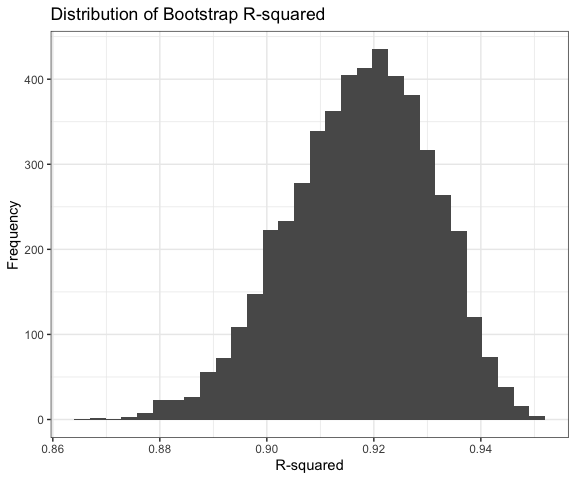
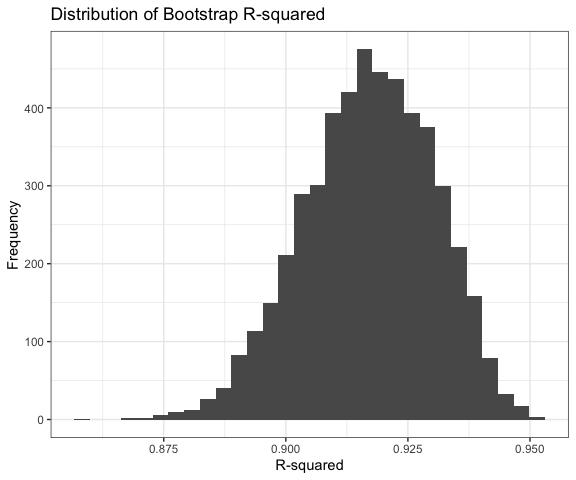
rmse of models plot

diff --git a/p8105_hw6_drl2168.md b/p8105_hw6_drl2168.md
@@ -219,9 +219,9 @@ df_weather |>
     ## # A tibble: 3 × 5
     ##   term        estimate std.error statistic   p.value
     ##   <chr>          <dbl>     <dbl>     <dbl>     <dbl>
-    ## 1 (Intercept)  8.31      0.233       35.7  1.15e-120
-    ## 2 tmin         0.998     0.0168      59.2  2.60e-188
-    ## 3 prcp        -0.00373   0.00262     -1.42 1.55e-  1
+    ## 1 (Intercept)  7.91      0.252       31.4  1.64e-105
+    ## 2 tmin         1.01      0.0183      55.3  1.49e-178
+    ## 3 prcp         0.00500   0.00211      2.37 1.81e-  2
 
 I created the dataframe I needed with 5000 samples of the weather
 dataframe.
@@ -317,8 +317,8 @@ df_bootstrap |>
 
 | Parameter | CI Lower Bound | CI Upper Bound |
 |:----------|---------------:|---------------:|
-| log_beta  |          -8.77 |         -4.594 |
-| r.squared |           0.89 |          0.941 |
+| log_beta  |         -8.453 |         -4.599 |
+| r.squared |          0.890 |          0.940 |
 
 # Problem 3
 
@@ -357,14 +357,6 @@ df_bwt =
     mrace = as.factor(mrace),
     frace = as.factor(frace))
 ```
-
-    ## Rows: 4342 Columns: 20
-    ## ── Column specification ────────────────────────────────────────────────────────
-    ## Delimiter: ","
-    ## dbl (20): babysex, bhead, blength, bwt, delwt, fincome, frace, gaweeks, malf...
-    ## 
-    ## ℹ Use `spec()` to retrieve the full column specification for this data.
-    ## ℹ Specify the column types or set `show_col_types = FALSE` to quiet this message.
 
 I will build this model using a stepwise regression approach, using AIC
 to evaluate model performance. This can be performed using the
@@ -606,14 +598,12 @@ df_bwt |>
   add_predictions(bwt_model) |> 
   ggplot(aes(x = pred, y = resid)) + 
   geom_point() + 
-  geom_smooth(method = "lm") + 
+  geom_smooth(method = "lm", formula = y ~ x) + 
   labs(
     x = "Predicted Birthweight",
     y = "Residuals"
   )
 ```
-
-    ## `geom_smooth()` using formula = 'y ~ x'
 
 <img src="p8105_hw6_drl2168_files/figure-gfm/resid plot-1.png" width="90%" />
 
@@ -623,3 +613,59 @@ the model only performing well on the more ‘typical’ baby, which
 represents the majority of the data it was trained on. However, in
 general the residuals appear to not change much with predicted
 birthweight and be centered around zero, based upon the smoothing line.
+
+To test the model generated by the stepwise selection approach against
+two pre-defined models, I will use cross validation.
+
+``` r
+df_cv = 
+  df_bwt |>
+  crossv_mc(5000) |> 
+  mutate(
+    train = map(train, as_tibble),
+    test = map(test, as_tibble),
+    stepwise_model = map(train, \(df) lm(
+      bwt ~ babysex + bhead + blength + delwt + fincome + gaweeks + 
+        mheight + mrace + parity + ppwt + smoken, data = df)),
+    small_model = map(train, \(df) lm(bwt ~ blength + gaweeks, data = df)),
+    interaction_model = map(train, \(df) lm(
+      bwt ~ bhead + blength + babysex + bhead*blength + bhead*babysex + 
+        blength*babysex + bhead*blength*babysex, data = df))
+  ) |> 
+  mutate(
+    rmse_stepwise = map2_dbl(stepwise_model, test, 
+                             \(mod, df) rmse(model = mod, data = df)),
+    rmse_small = map2_dbl(small_model, test, 
+                          \(mod, df) rmse(model = mod, data = df)),
+    rmse_interaction = map2_dbl(interaction_model, test,
+                                \(mod, df) rmse(model = mod, data = df))
+  )
+```
+
+    ## Warning: There were 38 warnings in `mutate()`.
+    ## The first warning was:
+    ## ℹ In argument: `rmse_stepwise = map2_dbl(...)`.
+    ## Caused by warning in `predict.lm()`:
+    ## ! prediction from rank-deficient fit; attr(*, "non-estim") has doubtful cases
+    ## ℹ Run `dplyr::last_dplyr_warnings()` to see the 37 remaining warnings.
+
+``` r
+## There are warnings here for some reason?
+```
+
+Now I will plot the RMSEs from these models to compare their performance
+
+``` r
+df_cv |> 
+  select(starts_with("rmse")) |> 
+  pivot_longer(
+    everything(),
+    names_to = "model",
+    values_to = "rmse",
+    names_prefix = "rmse_"
+  ) |> 
+  ggplot(aes(x = model, y = rmse)) +
+  geom_violin()
+```
+
+<img src="p8105_hw6_drl2168_files/figure-gfm/unnamed-chunk-1-1.png" width="90%" />
